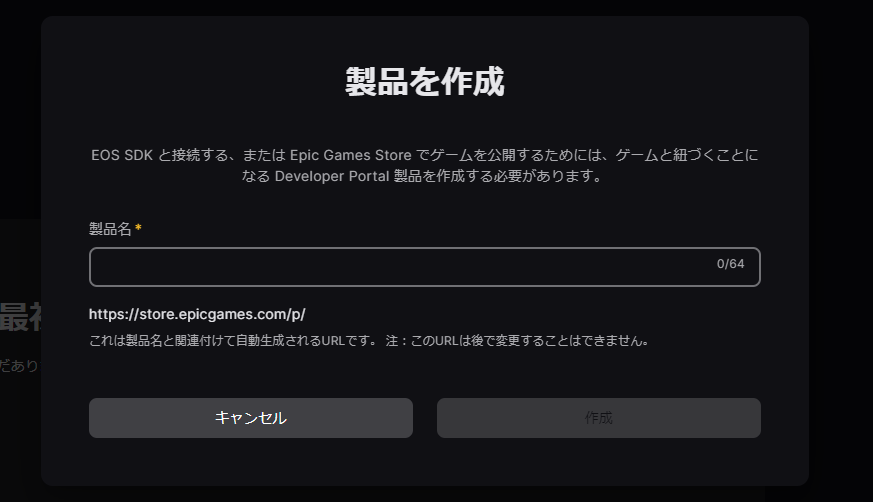
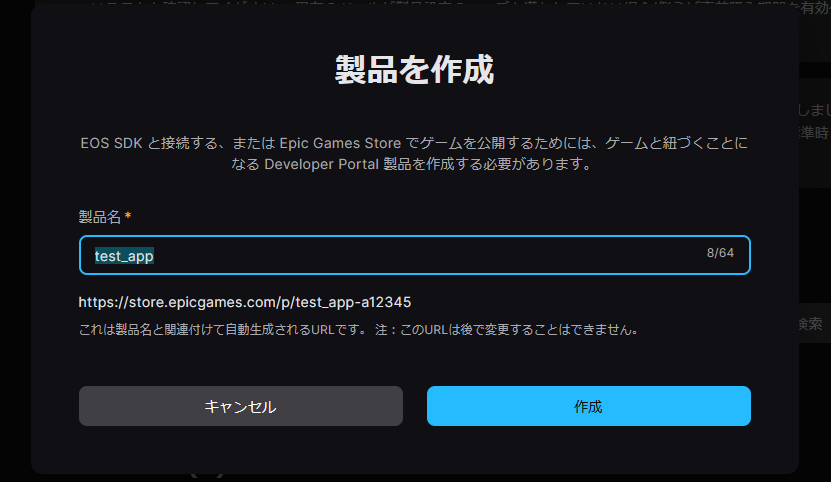
資料を追加

diff --git a/README.md b/README.md
@@ -2,18 +2,124 @@
 
 This program is lobby function's test for Epic Online Services (EOS).
 
-## 実行準備
+---
 
-1. EPIC アカウントを作成します
-1. [DevPortal](https://dev.epicgames.com/portal/ja/) にサインインし、
-1. 「製品を作成」からテスト用の製品（プロダクト）を作成します
-1. クライアント作成時に、ロビーが利用できるようにしておきます
-1. プロダクトの「EOS SDK認証情報」で「ヘッダーファイルで認証情報を使用する」から「製品の認証情報コード」を作成します。
-1. ルートフォルダにcredentials.hを作成し、そこへ貼り付けます
-1. 「SDKとリリースノート」から「C SDK」の「EOS-SDK-27379709-v1.16.1」をダウンロードし、ルートフォルダへ解凍します。
+## 1.実行準備
+
+### Webサイト上で、アプリケーション登録を行い、テスト用の認証情報を用意します。
+
+1. サインインにはEPICアカウントが必要です、未作成であれば EPIC アカウントを作成します
+
+   ![DevPortal](画像/000.png "サインイン")
+
+1. [DevPortal](https://dev.epicgames.com/portal/ja/) にサインインします
+
+   ![DevPortal](画像/001.png "DevPortal 初期画面")
+
+1. 「製品を作成」からeos_console_test用の製品（プロダクト）を作成します
+
+   ![DevPortal](画像/002.png "製品を作成")
+
+1. 「製品」から作成したプロダクトを選択します
+
+   ![DevPortal](画像/003.png "製品ルート画面")
+
+1. 「製品設定」を選びます、「製品設定」の画面へ遷移するので「クライアント」をクリックします
+
+   ![DevPortal](画像/004.png "製品設定")
+
+1. 契約同意していない場合、ここで確認が出ます
+
+   ![DevPortal](画像/005.png "製品クライアント - 契約要求")
+
+1. 同意直後は下記のような画面が出ることがあります、リロードすることで先に進めます
+
+   ![DevPortal](画像/006.png "製品クライアント - 契約要求 リロード必要")
+
+1. 「新規クライアントを追加」を選択します
+
+   ![DevPortal](画像/007.png "製品設定 - クライアント")
+
+1. 新しく追加するクライアントの設定を行います、「クライアント名」を設定したら、「新規クライアントポリシーを追加」をクリックします
+
+   ![DevPortal](画像/008.png "製品設定 - クライアント - 新規クライアント作成")
+
+1. クライアントポリシーは、EOSのどの機能を利用するかの許可設定を行います、Peer2Peerを選ぶと今回必要としているlobbies,matchingが利用できるポリシーとなります、設定ができたら「新規クライアントポリシーを追加」をクリックします
+
+   ![DevPortal](画像/009.png "製品設定 - クライアント - クライアントポリシー作成")
+
+1. 「新規クライアントを追加」をクリックしてクライアントを作成します
+
+   ![DevPortal](画像/010.png "製品設定 - クライアント - クライアントにポリシーを設定")
+
+1. クライアントの設定が完了したら、クライアントの画面にはこのような情報が表示されます
+
+   ![DevPortal](画像/011.png "製品設定 - クライアント - 設定完了")
+
+1. クライアントが作成できたので、アプリケーションを作成します、「Epicアカウントサービス」をクリックします。
+同意がされていない場合、図のような画面になります、同意する必要があります。
+
+   ![DevPortal](画像/012.png "DevPortal - アカウントサービス初期画面")
+
+1. アプリケーションを作成、アプリケーションにクラアントを関連付けする画面です、
+
+   作成済みのアプリケーションは「アプリケーション」の項目にならんでいます。
+
+   初期状態で一つ用意されているのでそれを利用するか、「アプリケーションを作成」から新規に作成します。
+
+   ![DevPortal](画像/013.png "DevPortal - アカウントサービス画面")
+
+1. 「アプリケーション」からクライアントを設定するアプリケーションの「アクセス許可」を選択します。
+
+   「アクセス許可」ではログイン時に指定する「EOS_EAuthScopeFlags」と同じ設定になるように許可を行う必要があります、
+
+   eos_test_consoleは「Basic Profile」のみ要求しているのでデフォルトの設定のまま「変更を保存」を選択します
+
+   ![DevPortal](画像/014.png "DevPortal - アカウントサービス画面 - アプリケーション設定 - アクセス許可")
+
+1. 次に「リンク済みのクライアント」を設定します、「クライアントを選択」から作成したクライアントを選択し、「変更を保存」を選択します
+
+   ![DevPortal](画像/015.png "DevPortal - アカウントサービス画面 - アプリケーション設定 - リンク済みのアプリケーション")
+
+1. 次に「リンク済みのクライアント」を設定します、「クライアントを選択」から作成したクライアントを選択し、「変更を保存」を選択します
+
+   ![DevPortal](画像/016.png "DevPortal - アカウントサービス画面 - アプリケーション設定 - 設定完了")
+
+1. 設定が終わったので、アプリケーションの認証情報を作成します、「製品設定」へ移動します
+
+   ![DevPortal](画像/017.png "製品設定 - ルート")
+
+1. 「ヘッダーファイルで認証情報を使用する」を選択します
+
+   ![DevPortal](画像/018.png "製品設定 - ヘッダ作成")
+
+1. 「理解しました」をクリックすると、認証用のコードが作成されます、右上にコピーボタンがあるのでコピーして利用します。
+
+   ![DevPortal](画像/019.png "製品設定 - ヘッダ作成 - コピー")
+
+---
+
+## ビルド
+
+1. eos_console_testのルートフォルダにcredentials.hを作成し、認証用コードを貼り付けます
+
+1. 「SDKとリリースノート」から「C SDK」の「EOS-SDK-27379709-v1.16.1」をダウンロードし、eos_console_testのルートフォルダへ解凍します
+
 1. eos_console_test.slnをvs2022で開きビルドを行います
+
+---
 
 ## 実行内容
 
-- アプリケーション認証情報とログイン情報を使ってEOSに接続し、ロビー作成、属性設定、検索のテストを行う構成になっています
+   アプリケーション認証情報とログイン情報を使ってEOSに接続し、ロビー作成、属性設定、検索のテストを行う構成になっています
 
+## ログイン、認証手順
+
+::: mermaid
+graph TD
+ A[EOS_Initialize]-->B[EOS_Platform_Create]
+ B-->|EOS_HPlatform|C{EOS_Auth_Login}
+ C-->|OK|F[EOS_ProductUserId]
+ C-->|EOS_InvalidUser| E[EOS_Connect_CreateUser]
+ E-->F[EOS_ProductUserId]
+ :::
